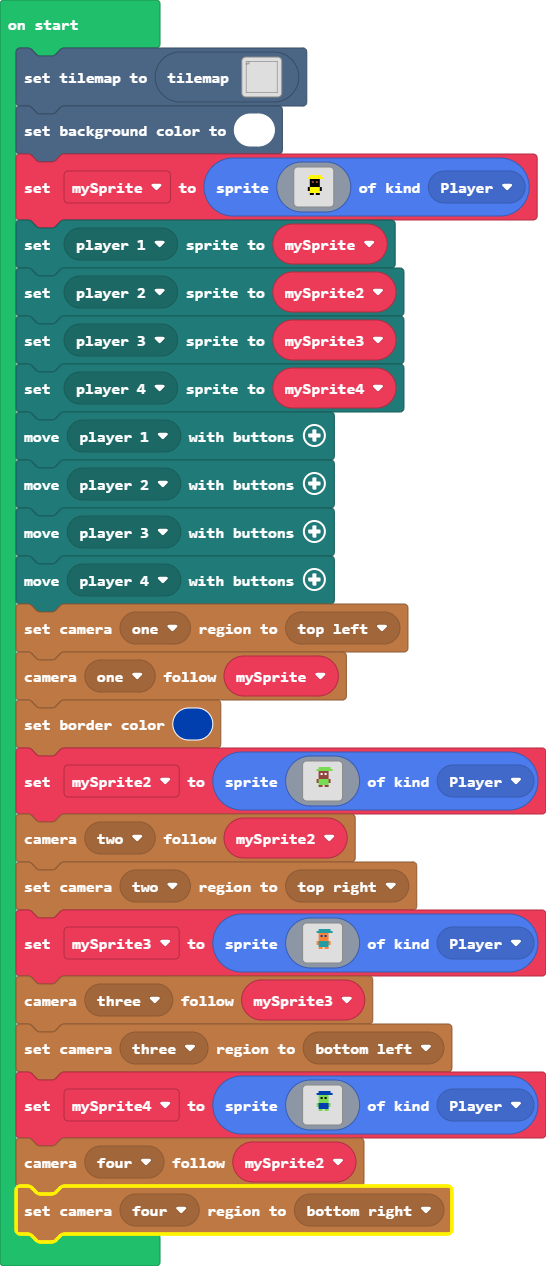
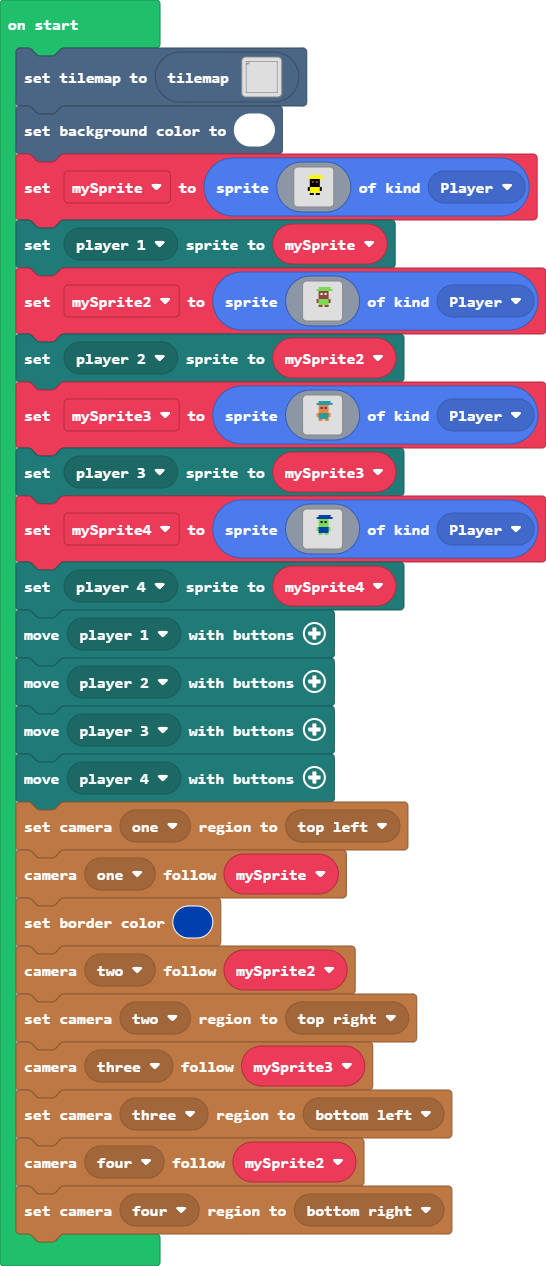
Update main.blocks, main.ts

diff --git a/main.ts b/main.ts
@@ -1,6 +1,3 @@
-let mySprite4: Sprite = null
-let mySprite3: Sprite = null
-let mySprite2: Sprite = null
 tiles.setCurrentTilemap(tilemap`level1`)
 scene.setBackgroundColor(1)
 let mySprite = sprites.create(img`
@@ -22,17 +19,7 @@ let mySprite = sprites.create(img`
     . . . . . . . . . . . . . . . . 
     `, SpriteKind.Player)
 mp.setPlayerSprite(mp.playerSelector(mp.PlayerNumber.One), mySprite)
-mp.setPlayerSprite(mp.playerSelector(mp.PlayerNumber.Two), mySprite2)
-mp.setPlayerSprite(mp.playerSelector(mp.PlayerNumber.Three), mySprite3)
-mp.setPlayerSprite(mp.playerSelector(mp.PlayerNumber.Four), mySprite4)
-mp.moveWithButtons(mp.playerSelector(mp.PlayerNumber.One))
-mp.moveWithButtons(mp.playerSelector(mp.PlayerNumber.Two))
-mp.moveWithButtons(mp.playerSelector(mp.PlayerNumber.Three))
-mp.moveWithButtons(mp.playerSelector(mp.PlayerNumber.Four))
-splitScreen.setCameraRegion(splitScreen.Camera.Camera1, splitScreen.CameraRegion.TopLeft)
-splitScreen.cameraFollowSprite(splitScreen.Camera.Camera1, mySprite)
-splitScreen.setBorderColor(8)
-mySprite2 = sprites.create(img`
+let mySprite2 = sprites.create(img`
     . . . . . . . . . . . . . . . . 
     . . . . . . 7 7 7 7 7 7 . . . . 
     . . . . . 7 7 7 7 7 7 7 7 . . . 
@@ -50,9 +37,8 @@ mySprite2 = sprites.create(img`
     . . . . . . . . . . . . . . . . 
     . . . . . . . . . . . . . . . . 
     `, SpriteKind.Player)
-splitScreen.cameraFollowSprite(splitScreen.Camera.Camera2, mySprite2)
-splitScreen.setCameraRegion(splitScreen.Camera.Camera2, splitScreen.CameraRegion.TopRight)
-mySprite3 = sprites.create(img`
+mp.setPlayerSprite(mp.playerSelector(mp.PlayerNumber.Two), mySprite2)
+let mySprite3 = sprites.create(img`
     . . . . . . . . . . . . . . . . 
     . . . . . . 6 6 6 6 6 6 . . . . 
     . . . . . 6 6 6 6 6 6 6 6 . . . 
@@ -70,9 +56,8 @@ mySprite3 = sprites.create(img`
     . . . . . . . . . . . . . . . . 
     . . . . . . . . . . . . . . . . 
     `, SpriteKind.Player)
-splitScreen.cameraFollowSprite(splitScreen.Camera.Camera3, mySprite3)
-splitScreen.setCameraRegion(splitScreen.Camera.Camera3, splitScreen.CameraRegion.BottomLeft)
-mySprite4 = sprites.create(img`
+mp.setPlayerSprite(mp.playerSelector(mp.PlayerNumber.Three), mySprite3)
+let mySprite4 = sprites.create(img`
     . . . . . . . . . . . . . . . . 
     . . . . . . 8 8 8 8 8 8 . . . . 
     . . . . . 8 8 8 8 8 8 8 8 . . . 
@@ -90,5 +75,17 @@ mySprite4 = sprites.create(img`
     . . . . . . . . . . . . . . . . 
     . . . . . . . . . . . . . . . . 
     `, SpriteKind.Player)
+mp.setPlayerSprite(mp.playerSelector(mp.PlayerNumber.Four), mySprite4)
+mp.moveWithButtons(mp.playerSelector(mp.PlayerNumber.One))
+mp.moveWithButtons(mp.playerSelector(mp.PlayerNumber.Two))
+mp.moveWithButtons(mp.playerSelector(mp.PlayerNumber.Three))
+mp.moveWithButtons(mp.playerSelector(mp.PlayerNumber.Four))
+splitScreen.setCameraRegion(splitScreen.Camera.Camera1, splitScreen.CameraRegion.TopLeft)
+splitScreen.cameraFollowSprite(splitScreen.Camera.Camera1, mySprite)
+splitScreen.setBorderColor(8)
+splitScreen.cameraFollowSprite(splitScreen.Camera.Camera2, mySprite2)
+splitScreen.setCameraRegion(splitScreen.Camera.Camera2, splitScreen.CameraRegion.TopRight)
+splitScreen.cameraFollowSprite(splitScreen.Camera.Camera3, mySprite3)
+splitScreen.setCameraRegion(splitScreen.Camera.Camera3, splitScreen.CameraRegion.BottomLeft)
 splitScreen.cameraFollowSprite(splitScreen.Camera.Camera4, mySprite2)
 splitScreen.setCameraRegion(splitScreen.Camera.Camera4, splitScreen.CameraRegion.BottomRight)
